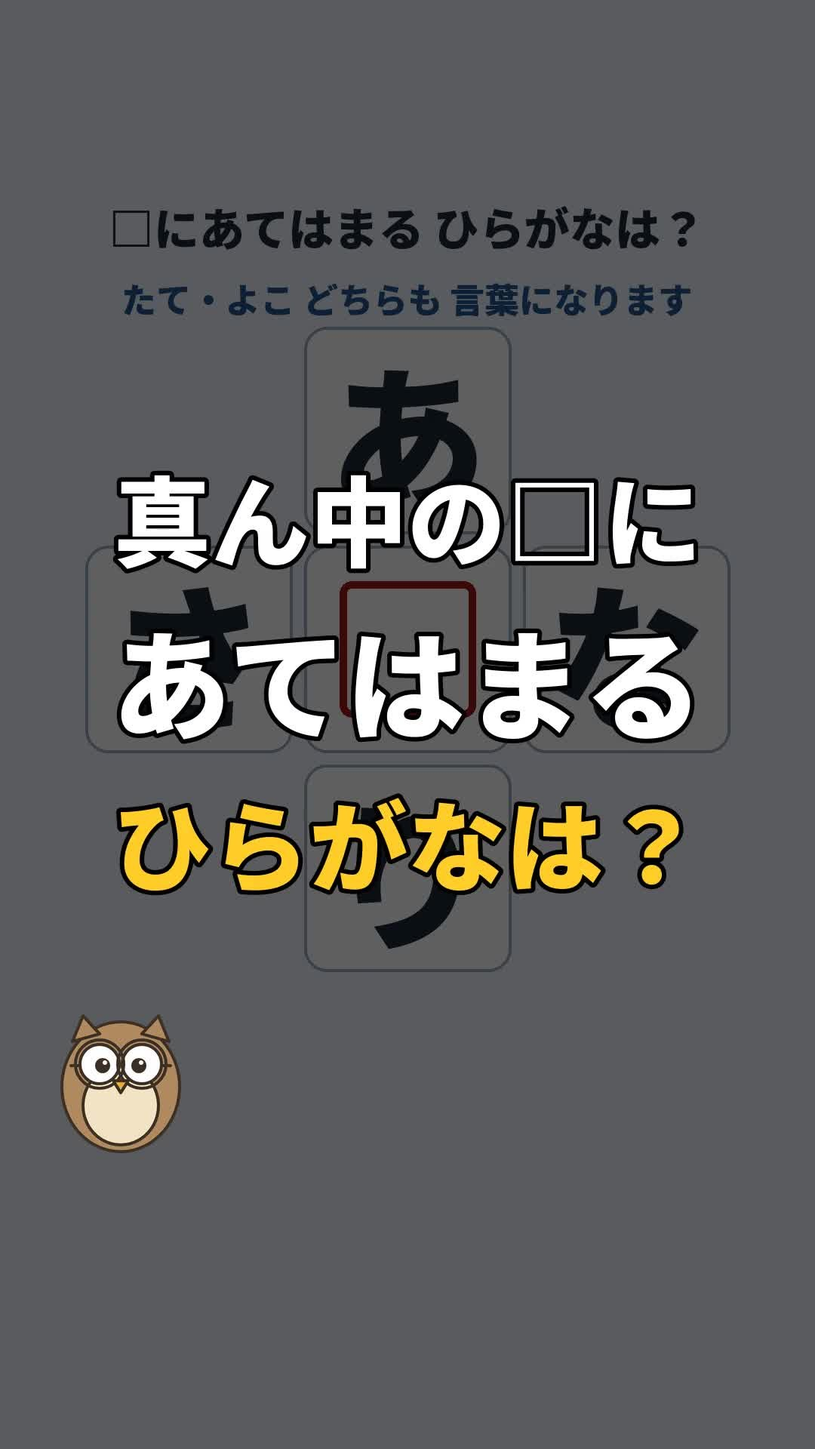
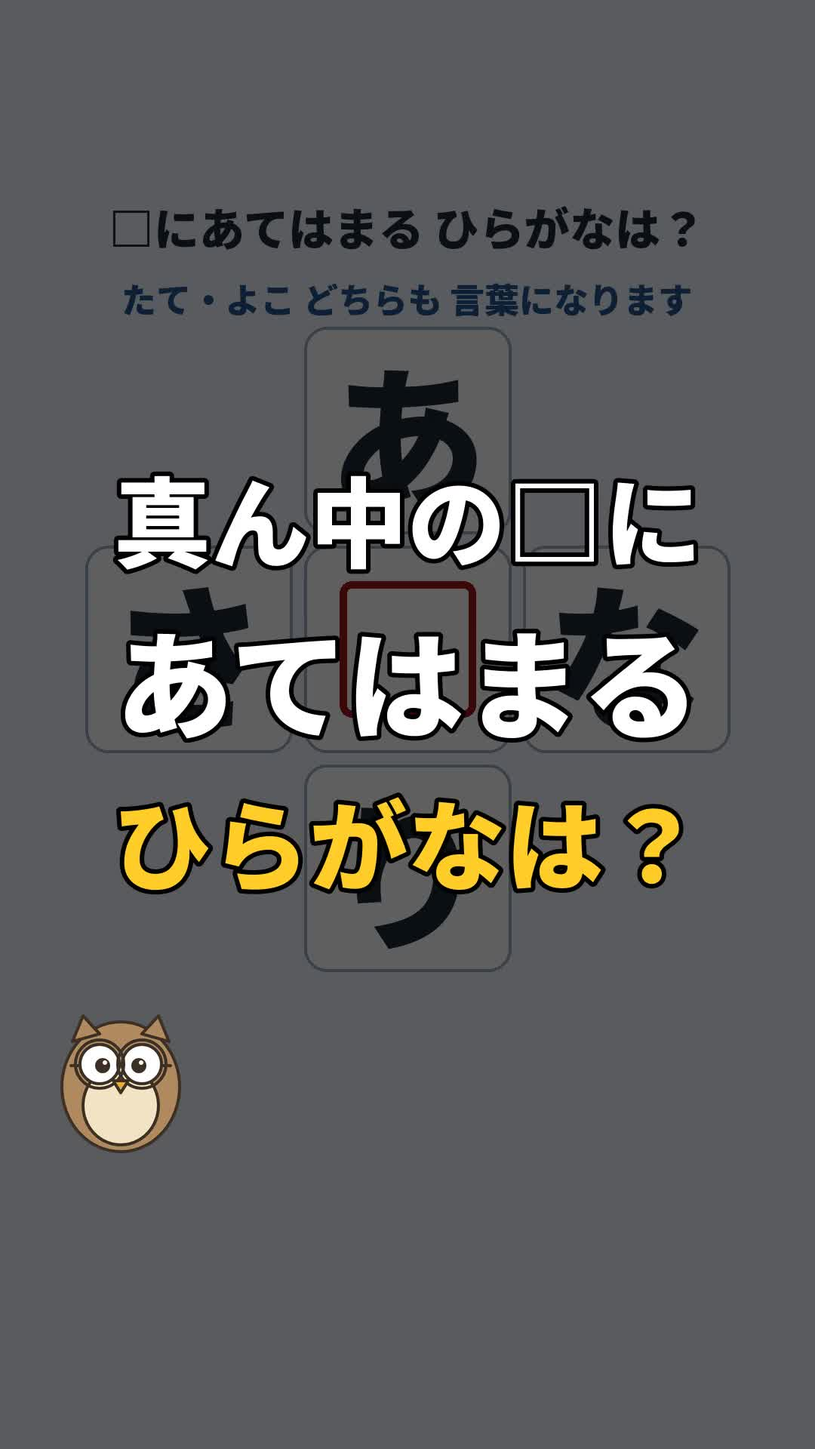
ショートの最初の画面：行分けを言葉の途中で切らないように・intro_lines の欄（再審査待ち）
Claude-Session: https://claude.ai/code/session_01RF3BnfrPSRk1U21VXW6Yry

diff --git a/scripts/text_shorts.py b/scripts/text_shorts.py
@@ -79,44 +79,93 @@ INTRO_GAP = 1.5          # 最初の画面の行の高さ（2026-11-25 CEO：行
 INTRO_MAX, INTRO_CHARS, INTRO_HEIGHT = 170, 7, 1150   # 1行の大きさの上限・1行の字数の目安・全体の高さの上限
 
 
-def _split_line(s):
-    """長い行を、空白・読点・助詞の切れ目で2行に分ける（1行 INTRO_CHARS 字ぐらいまで）。"""
+PARTICLES = "はがをにのでともや"
+PUNCT = "？！。、」』）"
+
+
+def _atoms(s):
+    """行を、切ってよい所で区切った塊にする。各塊は (文字, 前の塊と空白・読点で分かれていたか)。"""
     import re
-    s = s.strip()
-    if len(s.replace(" ", "")) <= INTRO_CHARS:
-        return [s.replace(" ", "")] if " " not in s.strip() else [s]
-    parts = [x for x in re.split(r"[ 　、]+", s) if x]
-    if len(parts) >= 2:
-        out, cur = [], ""
-        for x in parts:
-            if cur and len(cur) + len(x) > INTRO_CHARS:
-                out.append(cur); cur = x
+    out = []
+    for ti, chunk in enumerate([x for x in re.split(r"[ \u3000、]+", s.strip()) if x]):
+        cur, first = "", True
+        for i, ch in enumerate(chunk):
+            cur += ch
+            nxt = chunk[i + 1] if i + 1 < len(chunk) else ""
+            hira_next = "\u3040" <= nxt <= "\u309f"
+            kana_run = len(re.search(r"[\u3040-\u309f]*$", cur).group(0))
+            cut = nxt and ((ch in "？！") or (ch in PARTICLES and not hira_next and nxt not in PUNCT)
+                           or (kana_run >= 4 and "\u4e00" <= nxt <= "\u9fff"))      # 4字以上のひらがな（あてはまる）のあと、漢字が続くとき
+            if cut:
+                out.append((cur, first and ti > 0)); cur, first = "", False
+        if cur:
+            out.append((cur, first and ti > 0))
+    return out
+
+
+def _split_line(s):
+    """（互換）1つの入力行を、言葉の途中で切らずに行に分ける。_split_rows の1行版。"""
+    return _split_rows([s])
+
+
+def _split_rows(texts):
+    """入力の行（texts）を、言葉の途中で切らずに、出力の行 [(文字, 何番目の入力行か)] にする（2026-11-25 監査R-1）。
+    切ってよい所：空白・読点、「？」「！」のあと、助詞（は・が・を・に・の・で・と・も・や）のあと（助詞のあとにひらがなが続くときは言葉の途中なので切らない）、
+    4字以上のひらがなのあとに漢字が続く所（あてはまる｜漢字は？）。1行 INTRO_CHARS 字までに詰め、1〜2字だけの行は前（なければ次）の行につなぐ（入力の行をまたいでもよい）。
+    切れる所がなければ1行のまま（小さくなる）。空白で分けた塊をつなぐときは、空白を1つ残す。"""
+    rows = []   # [文字, 入力行の番号]
+    for ti, t in enumerate(texts):
+        mine = []
+        for a, sp in _atoms(t):
+            pure = lambda x: x.replace(" ", "")
+            if mine and len(pure(mine[-1])) + len(pure(a)) <= INTRO_CHARS:
+                mine[-1] += (" " if sp else "") + a
             else:
-                cur += x
-        return out + [cur]
-    mid = len(s) // 2
-    kana = lambda c: "\u3040" <= c <= "\u30ff"
-    cand = [i for i in range(1, len(s)) if kana(s[i - 1]) != kana(s[i]) and s[i - 1] not in "？！」』"] + [i + 1 for i, ch in enumerate(s[:-1]) if ch in "はがをにのでともや"]   # ひらがなと漢字の境目・助詞の後ろ
-    k = min(cand, key=lambda i: abs(i - mid)) if cand else mid
-    if abs(k - mid) > 2:
-        k = mid
-    return [s[:k], s[k:]]
+                mine.append(a)
+        rows += [[m, ti] for m in mine]
+    k = 0
+    while k < len(rows) and len(rows) > 1:
+        if len(rows[k][0].replace(" ", "")) <= 2:
+            if k > 0:
+                rows[k - 1][0] += rows.pop(k)[0]; k -= 1
+            else:
+                rows[1][0] = rows[0][0] + rows[1][0]; rows.pop(0)
+            continue
+        k += 1
+    return rows
 
 
-def intro_lines(texts, last_color=None):
-    """最初の画面（0:00＝サムネ）の文字を、文字数を減らして大きくする。texts＝入力の行。長い行は2行に分け、
-    1行ごとに幅800px に収まる最大の大きさ（上限170px）にする。最後の入力行は last_color（なければ ACCENT）、ほかは白。
-    全体が高すぎるときは、まとめて小さくする。"""
-    rows = []
-    for i, t in enumerate(texts):
-        for part in _split_line(t):
-            rows.append([part, (255, 255, 255) if i < len(texts) - 1 or len(texts) == 1 else (last_color or ACCENT)])
+def intro_lines(texts, explicit=False):
+    """最初の画面（0:00＝サムネ）の文字の行と大きさ。
+    自動（explicit=False）：texts＝入力の行。長い行は _split_line で言葉の切れ目で分け、1行ごとに幅800pxに収まる最大の大きさ（上限170px）にし、
+      1画面の中の大きさは、いちばん小さい行の1.2倍までにそろえる。最後の入力行は黄色、ほかは白。全体が高すぎるときはまとめて小さくする。
+    作る人が行を書く（explicit=True。problem.json の "intro_lines"）：texts の各要素は "行" か ["行", "accent"]（黄色）。そのとおりの行で、
+      幅800pxに収まる最大の大きさ。100px未満になる行があれば、理由を出して止まる。"""
     d = ImageDraw.Draw(Image.new("RGB", (10, 10)))
-    sizes = [fit(d, r[0], INTRO_MAX, 800) for r in rows]
+    rows = []
+    if explicit:
+        for t in texts:
+            txt, col = (t, "white") if isinstance(t, str) else (t[0], t[1] if len(t) > 1 else "white")
+            sz = fit(d, txt, INTRO_MAX, 800)
+            if sz < 100:
+                raise SystemExit(f"intro_lines の「{txt}」が長すぎる（{len(txt)}字。幅800pxだと{sz}px）。100px以上にするため、1行7〜8字までに分けて書き直す")
+            rows.append([txt, ACCENT if col == "accent" else (255, 255, 255), sz])
+        sizes = [r[2] for r in rows]
+    else:
+        for part, i in _split_rows(texts):
+            rows.append([part, (255, 255, 255) if i < len(texts) - 1 or len(texts) == 1 else ACCENT])
+        sizes = [fit(d, r[0], INTRO_MAX, 800) for r in rows]
+        cap = round(min(sizes) * 1.2)
+        sizes = [min(sz, cap) for sz in sizes]
     tot = sum(sz * INTRO_GAP for sz in sizes)
     if tot > INTRO_HEIGHT:
         sizes = [int(sz * INTRO_HEIGHT / tot) for sz in sizes]
     return [(r[0], sz, r[1]) for r, sz in zip(rows, sizes)]
+
+
+def intro_from_cfg(cfg):
+    """その問題の最初の画面の行。cfg に "intro_lines" があればそれを使い、なければ "veil" を自動で分ける。"""
+    return intro_lines(cfg["intro_lines"], explicit=True) if cfg.get("intro_lines") else intro_lines(cfg["veil"])
 
 
 def header(d, title, sub=None):
@@ -397,7 +446,7 @@ def build(kind, out):
 
     # 1. 暗い幕＋問題文（0:00 から出ている＝サムネ）
     d_intro = say("intro", L["intro"])
-    vl = intro_lines(cfg["veil"])     # 2026-11-25 CEO：文字を大きく・行間を広く。最初の画面は吹き出しを出さない（サムネ。こよみ先生は今の位置のまま）
+    vl = intro_from_cfg(cfg)     # 2026-11-25 CEO：文字を大きく・行間を広く。最初の画面は吹き出しを出さない（サムネ。こよみ先生は今の位置のまま）
     seq.append((speaker(veil(frame(0), vl, INTRO_GAP), "normal", None), max(4.0, d_intro + 0.4))); t += seq[-1][1]
     # 2. 考える時間（右上にのこり秒数）。はじめに「わかったら2回タップ」
     say("tap", TAP)
@@ -462,7 +511,7 @@ def load_problem(path):
     if (P.get("season") or P.get("theme")) and not SEASON_ARG:    # 問題に季節が書いてあれば、その季節の色（--season があればそちらが先。どちらも無ければ冬のまま）
         set_season(P.get("season"), P.get("theme"))
     cfg = KINDS[kind][0]
-    for k in ("title", "sub", "think", "veil", "across", "down", "answer", "word", "rows"):
+    for k in ("title", "sub", "think", "veil", "intro_lines", "across", "down", "answer", "word", "rows"):
         if k in P:
             cfg[k] = P[k]
     if "items" in P:

diff --git a/scripts/chigau_shorts.py b/scripts/chigau_shorts.py
@@ -24,7 +24,8 @@ def font_w(size, weight="900Black"):
 
 
 TITLE = "ちがうのどーれだ？"
-VEIL_TXT = [TITLE, "見つけてみてね！"]          # 最初の画面（0:00＝サムネ）。文字数を減らして大きく（2026-11-25 CEO）。説明の2行は台紙の上の見出しにある
+VEIL_TXT = [TITLE, "見つけてみてね！"]
+INTRO_LINES = ["ちがうの", "どーれだ？", ["見つけて", "accent"], ["みてね！", "accent"]]   # 最初の画面の行（作る人が書いた行。言葉の途中で切らない）          # 最初の画面（0:00＝サムネ）。文字数を減らして大きく（2026-11-25 CEO）。説明の2行は台紙の上の見出しにある
 
 
 def base(what, bg=None):
@@ -255,17 +256,17 @@ def mikan_frame(state, remain=None):
 
 
 # ---------- T.build に登録（流れ・声・音・こよみ先生・矢印は共通） ----------
-T.KINDS["easy"] = ({"think": 15, "veil": VEIL_TXT}, easy_frame, 1)
-T.KINDS["hard"] = ({"think": 20, "veil": VEIL_TXT}, hard_frame, 1)
-T.KINDS["mikan"] = ({"think": 15, "veil": VEIL_TXT}, mikan_frame, 1)
+T.KINDS["easy"] = ({"think": 15, "veil": VEIL_TXT, "intro_lines": INTRO_LINES}, easy_frame, 1)
+T.KINDS["hard"] = ({"think": 20, "veil": VEIL_TXT, "intro_lines": INTRO_LINES}, hard_frame, 1)
+T.KINDS["mikan"] = ({"think": 15, "veil": VEIL_TXT, "intro_lines": INTRO_LINES}, mikan_frame, 1)
 T.LINES["easy"] = {"intro": ("違う漢字が、1つだけあります。どれでしょう？", "ちがうかんじが、ひとつだけあります。どれでしょう？"),
                    "ans": [("「季節」の『季』の中に、「李（すもも）」の『李』が、混ざっていました。", "きせつの、き、のなかに、すももの、り、が、まざっていました。")]}
 T.LINES["hard"] = {"intro": ("違う漢字が、1つだけあります。どれでしょう？", "ちがうかんじが、ひとつだけあります。どれでしょう？"),
                    "ans": [("「年末」の『末』の中に、「未来」の『未』が、混ざっていました。", "ねんまつの、まつ、のなかに、みらいの、み、が、まざっていました。")]}
 T.LINES["mikan"] = {"intro": ("違うみかんが、1つだけあります。どれでしょう？", "ちがうみかんが、ひとつだけあります。どれでしょう？"),
                     "ans": [("葉っぱが反対向きの、みかんでした。", "はっぱが、はんたいむきの、みかんでした。")]}
-T.KINDS["futsu"] = ({"think": 18, "veil": VEIL_TXT}, futsu_frame, 1)
-T.KINDS["mitten"] = ({"think": 15, "veil": VEIL_TXT}, mitten_frame, 1)
+T.KINDS["futsu"] = ({"think": 18, "veil": VEIL_TXT, "intro_lines": INTRO_LINES}, futsu_frame, 1)
+T.KINDS["mitten"] = ({"think": 15, "veil": VEIL_TXT, "intro_lines": INTRO_LINES}, mitten_frame, 1)
 T.LINES["futsu"] = {"intro": ("違う漢字が、1つだけあります。どれでしょう？", "ちがうかんじが、ひとつだけあります。どれでしょう？"),
                     "ans": [("「大小」の『大』の中に、「犬」の『犬』が、混ざっていました。", "だいしょうの、だい、のなかに、いぬの、いぬ、が、まざっていました。")]}
 T.LINES["mitten"] = {"intro": ("違う手袋が、1つだけあります。どれでしょう？", "ちがうてぶくろが、ひとつだけあります。どれでしょう？"),
@@ -290,7 +291,7 @@ def load_problem(path):
             if ch == cfg["odd"] and state:
                 circle(d, cx, cy, int(sz * 0.62))
         return im
-    T.KINDS[key] = ({"think": P["think"], "veil": VEIL_TXT}, frame, 1)
+    T.KINDS[key] = ({"think": P["think"], "veil": VEIL_TXT, "intro_lines": INTRO_LINES}, frame, 1)
     T.LINES[key] = {"intro": tuple(P["lines"]["intro"]), "ans": [tuple(x) for x in P["lines"]["ans"]]}
     T.PROBLEM_ID = key
     return key
@@ -339,7 +340,7 @@ def build(kind, out):
     def say(key, line, at=None):
         w, dur = T.voice(kind, key, line[1]); voices.append((w, (t if at is None else at) + 0.3, key, line)); return dur + 0.3
     d_intro = say("intro", L["intro"])
-    vl = T.intro_lines(cfg["veil"])     # 2026-11-25 CEO：文字を大きく・行間を広く。最初の画面は吹き出しを出さない（サムネ）
+    vl = T.intro_from_cfg(cfg)     # 2026-11-25 CEO：文字を大きく・行間を広く。最初の画面は吹き出しを出さない（サムネ）
     seq.append((T.speaker(T.veil(frame(0), vl, T.INTRO_GAP), "normal", None), max(4.0, d_intro + 0.4))); t += seq[-1][1]
     say("tap", T.TAP)
     for s_ in range(cfg["think"], 0, -1):

diff --git a/scripts/mushimegane_shorts.py b/scripts/mushimegane_shorts.py
@@ -186,7 +186,7 @@ def build(item, out):
     intro = (item.get("intro_sub", f"この{item['kind']}、なーんだ？虫めがねで、のぞいてみてね。"), item["intro_voice"])
     d = say("intro", intro)
     # 最初の画面（0:00＝サムネ）：暗い幕の上に大きな文字。吹き出しは出さない（こよみ先生は今の位置）
-    vl = T.intro_lines([f"この{item['kind']}", "なーんだ？", "虫めがねで、のぞいてみてね"])
+    vl = T.intro_lines([f"この{item['kind']}", "なーんだ？", ["虫めがねで", "accent"], ["のぞいてみてね", "accent"]], explicit=True)
     seq.append((T.speaker(T.veil(frame(item, pic, "cover", 0), vl, T.INTRO_GAP), "normal", None), max(5.0, d + 0.6))); t += seq[-1][1]
     # 考える時間＝虫めがねが道すじを通る（15コマ/秒。のこり秒数を右上に出す）
     step = 1 / 15

diff --git a/outputs/prototypes/short_winter_002/split_check.md b/outputs/prototypes/short_winter_002/split_check.md
@@ -1,0 +1,1 @@
+# 最初の画面の行分けの確認（既存の problem.json 全件・書き出しなし）\n\n新しい行分け（scripts/text_shorts.py の _split_rows・intro_lines）に既存の problem.json 全31件を通した結果（2026-11-25 監査R-1の直し）。\n- 切る所：空白・読点、「？」「！」のあと、助詞（は・が・を・に・の・で・と・も・や）のあと（助詞のあとにひらがなが続くときは言葉の途中なので切らない）、4字以上のひらがなのあとに漢字が続く所（あてはまる｜漢字は？）。\n- 1〜2字だけの行は前（なければ次）の行につなぐ。切れる所がない行は1行のまま小さくする（例：見つけられますか？＝86px）。\n- 大きさは、1画面の中で、いちばん小さい行の1.2倍までにそろえる。\n\n| 回 | 種類 | 入力の行（veil） | 出力の行（大きさ） | 行の出どころ | 判定 |\n|---|---|---|---|---|---|\n| 2026-11-23_text_004 | pref | 「か行」で始まる ／ 都道府県の □ に ／ あてはまる漢字は？ | 「か行」で（127px） ／ 始まる（127px） ／ 都道府県の □ に（106px） ／ あてはまる（127px） ／ 漢字は？（127px） | 自動 | OK |\n| 2026-11-23_text_005 | cross | 真ん中の □ に ／ あてはまる ひらがなは？ ／ たて・よこ とも 言葉になる | 真ん中の □ に（122px） ／ あてはまる（132px） ／ ひらがなは？（130px） ／ たて・よこ とも（110px） ／ 言葉になる（132px） | 自動 | OK |\n| 2026-11-23_text_006 | kanji | 左と右で ／ ちがう漢字が 2つ ／ 見つけられますか？ | 左と右で（103px） ／ ちがう漢字が2つ（102px） ／ 見つけられますか？（86px） | 自動 | OK |\n| 2026-11-23_text_007 | pref | 県名とちがう ／ 県庁所在地の □ に ／ あてはまる漢字は？ | 県名とちがう（113px） ／ 県庁所在地の □に（94px） ／ あてはまる（113px） ／ 漢字は？（113px） | 自動 | OK |\n| 2026-11-23_text_008 | cross | 真ん中の □ に ／ あてはまる ひらがなは？ ／ たて・よこ とも 言葉になる | 真ん中の □ に（122px） ／ あてはまる（132px） ／ ひらがなは？（130px） ／ たて・よこ とも（110px） ／ 言葉になる（132px） | 自動 | OK |\n| 2026-11-23_text_009 | kanji | 左と右で ／ ちがう漢字が 2つ ／ 見つけられますか？ | 左と右で（103px） ／ ちがう漢字が2つ（102px） ／ 見つけられますか？（86px） | 自動 | OK |\n| 2026-11-23_text_015 | pref | 温泉で有名な ／ 都道府県の □ に ／ あてはまる漢字は？ | 温泉で有名な（127px） ／ 都道府県の □ に（106px） ／ あてはまる（127px） ／ 漢字は？（127px） | 自動 | OK |\n| 2026-11-23_text_016 | cross | 冬の食べ物の言葉 ／ 真ん中の □ に ／ あてはまる ひらがなは？ | 冬の食べ物の言葉（98px） ／ 真ん中の □ に（118px） ／ あてはまる（118px） ／ ひらがなは？（118px） | 自動 | OK |\n| 2026-11-23_text_017 | kanji | 左と右で ／ ちがう漢字が 2つ ／ 見つけられますか？ | 左と右で（103px） ／ ちがう漢字が2つ（102px） ／ 見つけられますか？（86px） | 自動 | OK |\n| 2026-11-23_text_018 | text_018 | ちがうのどーれだ？ ／ 見つけてみてね！ | ちがうの（170px） ／ どーれだ？（158px） ／ 見つけて（170px） ／ みてね！（170px） | intro_lines（作る人が書いた行） | OK |\n| 2026-11-24_text_019 | pref | 「さ行」で始まる ／ 都道府県の □ に ／ あてはまる漢字は？ | 「さ行」で（127px） ／ 始まる（127px） ／ 都道府県の □ に（106px） ／ あてはまる（127px） ／ 漢字は？（127px） | 自動 | OK |\n| 2026-11-24_text_020 | pref | 「川」がつく ／ 都道府県の □ に ／ あてはまる漢字は？ | 「川」がつく（127px） ／ 都道府県の □ に（106px） ／ あてはまる（127px） ／ 漢字は？（127px） | 自動 | OK |\n| 2026-11-24_text_021 | pref | 海に面していない ／ 県の □ に ／ あてはまる漢字は？ | 海に面していない（98px） ／ 県の □ に（118px） ／ あてはまる（118px） ／ 漢字は？（118px） | 自動 | OK |\n| 2026-11-24_text_022 | cross | 真ん中の □ に ／ あてはまる ひらがなは？ ／ たて・よこ とも 言葉になる | 真ん中の □ に（122px） ／ あてはまる（132px） ／ ひらがなは？（130px） ／ たて・よこ とも（110px） ／ 言葉になる（132px） | 自動 | OK |\n| 2026-11-24_text_023 | cross | 真ん中の □ に ／ あてはまる ひらがなは？ ／ たて・よこ とも 言葉になる | 真ん中の □ に（122px） ／ あてはまる（132px） ／ ひらがなは？（130px） ／ たて・よこ とも（110px） ／ 言葉になる（132px） | 自動 | OK |\n| 2026-11-24_text_024 | cross | 真ん中の □ に ／ あてはまる ひらがなは？ ／ たて・よこ とも 言葉になる | 真ん中の □ に（122px） ／ あてはまる（132px） ／ ひらがなは？（130px） ／ たて・よこ とも（110px） ／ 言葉になる（132px） | 自動 | OK |\n| 2026-11-24_text_025 | kanji | 左と右で ／ ちがう漢字が 2つ ／ 見つけられますか？ | 左と右で（103px） ／ ちがう漢字が2つ（102px） ／ 見つけられますか？（86px） | 自動 | OK |\n| 2026-11-24_text_026 | kanji | 左と右で ／ ちがう漢字が 2つ ／ 見つけられますか？ | 左と右で（103px） ／ ちがう漢字が2つ（102px） ／ 見つけられますか？（86px） | 自動 | OK |\n| 2026-11-24_text_027 | kanji | 左と右で ／ ちがう漢字が 2つ ／ 見つけられますか？ | 左と右で（103px） ／ ちがう漢字が2つ（102px） ／ 見つけられますか？（86px） | 自動 | OK |\n| 2026-11-24_text_028 | text_028 | ちがうのどーれだ？ ／ 見つけてみてね！ | ちがうの（170px） ／ どーれだ？（158px） ／ 見つけて（170px） ／ みてね！（170px） | intro_lines（作る人が書いた行） | OK |\n| 2026-11-24_text_029 | text_029 | ちがうのどーれだ？ ／ 見つけてみてね！ | ちがうの（170px） ／ どーれだ？（158px） ／ 見つけて（170px） ／ みてね！（170px） | intro_lines（作る人が書いた行） | OK |\n| 2026-11-24_text_030 | text_030 | ちがうのどーれだ？ ／ 見つけてみてね！ | ちがうの（170px） ／ どーれだ？（158px） ／ 見つけて（170px） ／ みてね！（170px） | intro_lines（作る人が書いた行） | OK |\n| 2026-11-24_text_031 | pref | 県名とちがう ／ 県庁所在地の □ に ／ あてはまる漢字は？ | 県名とちがう（113px） ／ 県庁所在地の □に（94px） ／ あてはまる（113px） ／ 漢字は？（113px） | 自動 | OK |\n| 2026-11-24_text_032 | pref | 名物で当てる ／ 都道府県の □ に ／ あてはまる漢字は？ | 名物で当てる（127px） ／ 都道府県の □ に（106px） ／ あてはまる（127px） ／ 漢字は？（127px） | 自動 | OK |\n| 2026-11-24_text_033 | pref | となりの県の ／ □ に ／ あてはまる漢字は？ | となりの県の□ に（94px） ／ あてはまる（113px） ／ 漢字は？（113px） | 自動 | OK |\n| 2026-11-24_text_034 | cross | 真ん中の □ に ／ あてはまる ひらがなは？ ／ たて・よこ とも 言葉になる | 真ん中の □ に（122px） ／ あてはまる（132px） ／ ひらがなは？（130px） ／ たて・よこ とも（110px） ／ 言葉になる（132px） | 自動 | OK |\n| 2026-11-24_text_035 | cross | 真ん中の □ に ／ あてはまる ひらがなは？ ／ たて・よこ とも 言葉になる | 真ん中の □ に（122px） ／ あてはまる（132px） ／ ひらがなは？（130px） ／ たて・よこ とも（110px） ／ 言葉になる（132px） | 自動 | OK |\n| 2026-11-24_text_036 | cross | 真ん中の □ に ／ あてはまる ひらがなは？ ／ たて・よこ とも 言葉になる | 真ん中の □ に（122px） ／ あてはまる（132px） ／ ひらがなは？（130px） ／ たて・よこ とも（110px） ／ 言葉になる（132px） | 自動 | OK |\n| 2026-11-25_text_037 | kanji | 左と右で ／ ちがう漢字が 2つ ／ 見つけられますか？ | 左と右で（103px） ／ ちがう漢字が2つ（102px） ／ 見つけられますか？（86px） | 自動 | OK |\n| 2026-11-25_text_038 | kanji | 左と右で ／ ちがう漢字が 2つ ／ 見つけられますか？ | 左と右で（103px） ／ ちがう漢字が2つ（102px） ／ 見つけられますか？（86px） | 自動 | OK |\n| 2026-11-25_text_039 | kanji | 左と右で ／ ちがう漢字が 2つ ／ 見つけられますか？ | 左と右で（103px） ／ ちがう漢字が2つ（102px） ／ 見つけられますか？（86px） | 自動 | OK |\n\n言葉の途中の切れ目：なし（切れ目は上の規則の所だけ）。1〜2字の行・大きさの差2割超：0件。\n

diff --git a/outputs/prototypes/short_winter_002/readings_check.md b/outputs/prototypes/short_winter_002/readings_check.md
@@ -2,16 +2,6 @@
 
 漢字が声の文に残っていたら「漢字あり」。声の文はひらがなとカタカナだけにする。
 
-## cross
-| セリフ | 字幕 | 声に渡した文 | 確認 |
-|---|---|---|---|
-| intro（0.3秒） | 真ん中にあてはまる、ひらがなは？ | まんなかにあてはまる、ひらがなは？ | OK |
-| tap（4.3秒） | わかったら、画面を2回タップしてくださいね。 | わかったら、がめんを、にかいタップしてくださいね。 | OK |
-| ans0（21.3秒） | 答えです。 | こたえです。 | OK |
-| ans1（22.8秒） | 答えは「か」です。さかなと、あかりです。 | こたえは、かです。さかなと、あかりです。 | OK |
-| comment（28.1秒） | わかったら、コメントで教えてくださいね。 | わかったら、コメントで、おしえてくださいね。 | OK |
-| cta（31.6秒） | 左下をクリックして、ほかの脳トレにも挑戦してくださいね。 | ひだりしたをクリックして、ほかののうトレにも、ちょうせんしてくださいね。 | OK |
-
 ## easy
 | セリフ | 字幕 | 声に渡した文 | 確認 |
 |---|---|---|---|
@@ -21,3 +11,13 @@
 | ans1（21.5秒） | 「季節」の『季』の中に、「李（すもも）」の『李』が、混ざっていました。 | きせつの、き、のなかに、すももの、り、が、まざっていました。 | OK |
 | comment（28.4秒） | わかったら、コメントで教えてくださいね。 | わかったら、コメントで、おしえてくださいね。 | OK |
 | cta（32.1秒） | 左下をクリックして、ほかの脳トレにも挑戦してくださいね。 | ひだりしたをクリックして、ほかののうトレにも、ちょうせんしてくださいね。 | OK |
+
+## cross
+| セリフ | 字幕 | 声に渡した文 | 確認 |
+|---|---|---|---|
+| intro（0.3秒） | 真ん中にあてはまる、ひらがなは？ | まんなかにあてはまる、ひらがなは？ | OK |
+| tap（4.3秒） | わかったら、画面を2回タップしてくださいね。 | わかったら、がめんを、にかいタップしてくださいね。 | OK |
+| ans0（21.3秒） | 答えです。 | こたえです。 | OK |
+| ans1（22.8秒） | 答えは「か」です。さかなと、あかりです。 | こたえは、かです。さかなと、あかりです。 | OK |
+| comment（28.1秒） | わかったら、コメントで教えてくださいね。 | わかったら、コメントで、おしえてくださいね。 | OK |
+| cta（31.6秒） | 左下をクリックして、ほかの脳トレにも挑戦してくださいね。 | ひだりしたをクリックして、ほかののうトレにも、ちょうせんしてくださいね。 | OK |

diff --git a/knowledge/shorts.md b/knowledge/shorts.md
@@ -81,3 +81,9 @@
 - 道すじの順番：**最初は当てにくい所（背景・外側）から、いちばん特徴的な所（たぬきの顔、かぶの葉と玉、おでんの具）は最後に回す**。問題の定義（scripts/mushimegane_defs.json）の rows（行の順番と向き）と finale（最後の点）で決める。
 - 答えの出し方：いきなり見せず、**「わかったかな？」（声と大きな文字、約2秒）→ 黒い覆いを右下の角から「ペロッ」とめくる → 「正解は、○○でした」**。
 - 言い方は「虫めがねで、のぞいてみてね」に統一。最後の流れは、コメントの呼びかけ（本ごとに言い方を変えて比べる）→ 左下をクリック＋矢印（吹き出しなし）。
+
+### 最初の画面の行の書き方（2026-11-25 監査R-1 で追記）
+- **1行は7字くらいまで**。1行ごとに幅800pxに収まる最大の大きさ（上限170px）で出る。字数が多い行は小さくなる（9字で約88px）。
+- 自動の行分け（problem.json の "veil"）は、言葉の途中で切らない。切るのは、空白・読点、「？」「！」のあと、助詞（は・が・を・に・の・で・と・も・や）のあと（助詞のあとにひらがなが続くときは切らない）、4字以上のひらがなのあとに漢字が続く所（あてはまる｜漢字は？）。1〜2字だけの行は前の行につなぐ。1画面の中の大きさは、いちばん小さい行の1.2倍までにそろえる。切れない行は1行のまま小さくなる。
+- **作る人が行を書く欄**：problem.json に `"intro_lines": ["ちがうの", "どーれだ？", ["見つけて", "accent"], ["みてね！", "accent"]]` と書く。文字列は白、`["行", "accent"]` は黄色。**書いたとおりの行**で、自動の行分け・大きさの調整は行わない（行の長さをそろえて書く）。1行が長すぎて幅800pxで100px未満になるときは、理由を出して止まる。"veil" より優先される。
+- 見本：short_winter_002/split_check.md（既存の問題31件の行分けの結果）。

diff --git a/outputs/prototypes/short_winter_002/README.md b/outputs/prototypes/short_winter_002/README.md
@@ -4,3 +4,7 @@ short_winter_001 と同じ問題（文字の脳トレ：十字 cross／ちがう
 - 最初の画面：暗い幕の上の文字を大きく。cross は 130・158・130px、easy は「ちがうの／どーれだ？／見つけて／みてね！」170・158・170・170px（001は 96・96・72px）。吹き出しなし。
 - 最後の「左下をクリック」の場面：吹き出しなし（矢印と重ならない）。こよみ先生は左下のまま。
 - 声は変えていない（文は同じ）。書き出しは1本ずつ（pgrep確認）。
+
+## 差し戻し1回目（R-1）の直し
+- 最初の画面の行分けを、言葉の途中で切らない規則に直した（scripts/text_shorts.py の _split_rows・intro_lines）。既存の problem.json 31件の結果は split_check.md。
+- problem.json に "intro_lines" 欄を追加（作る人が行を書く）。easy は intro_lines を使う（行・大きさは前と同じ）。cross は大きさが 130・156・130px に（前は 130・158・130px）ので書き出し直した。
